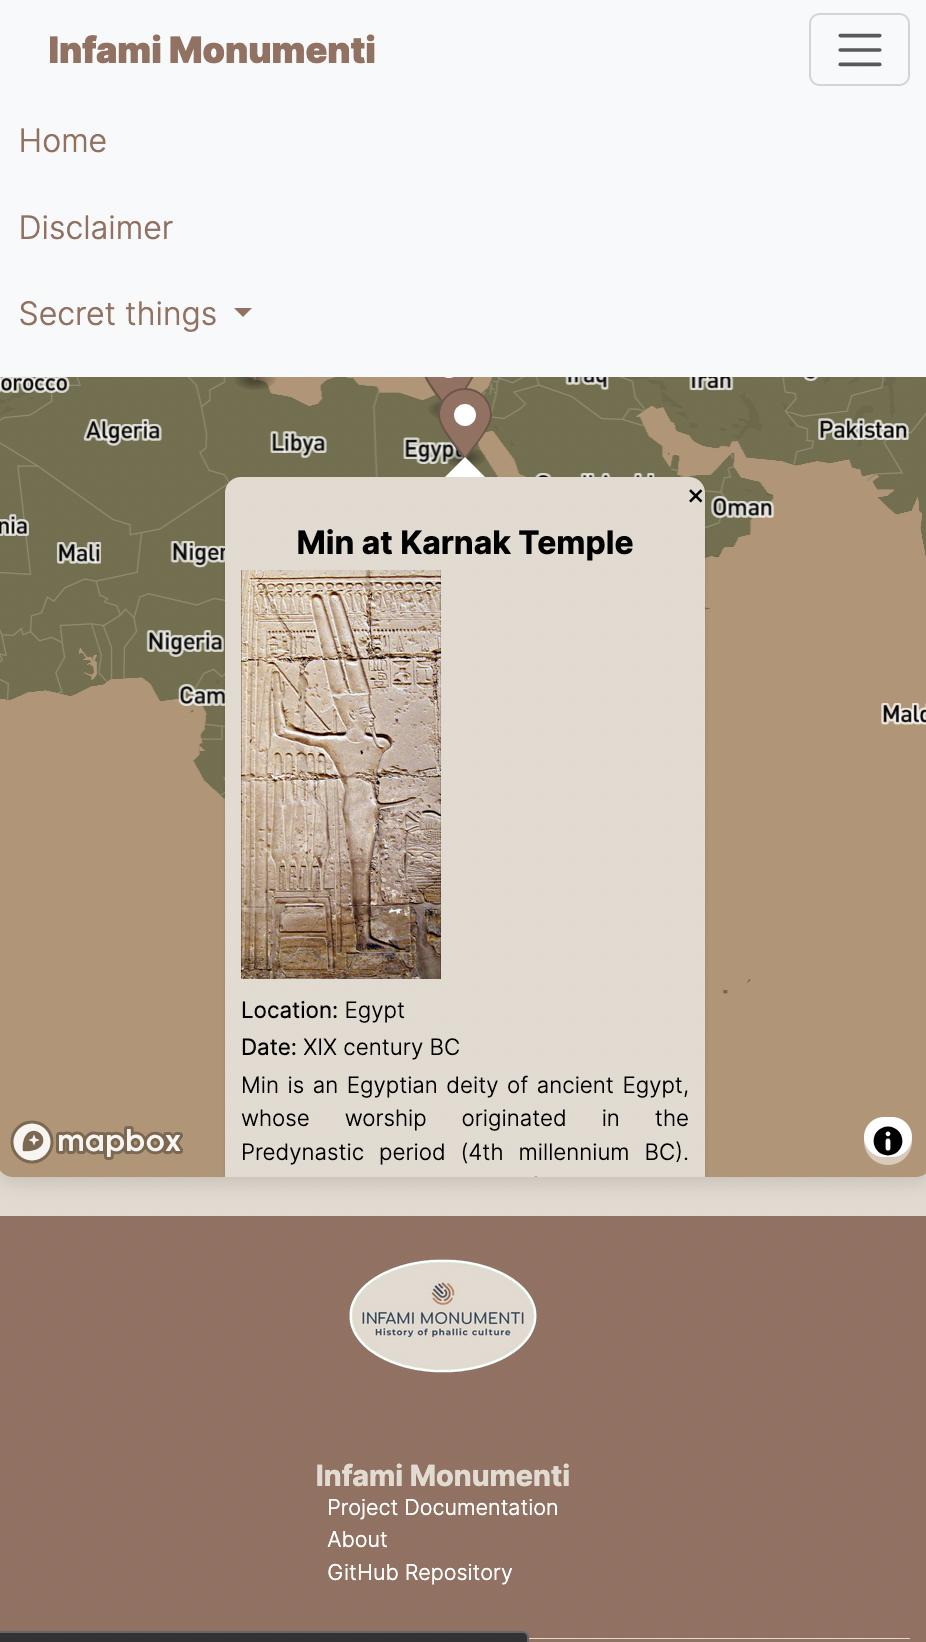
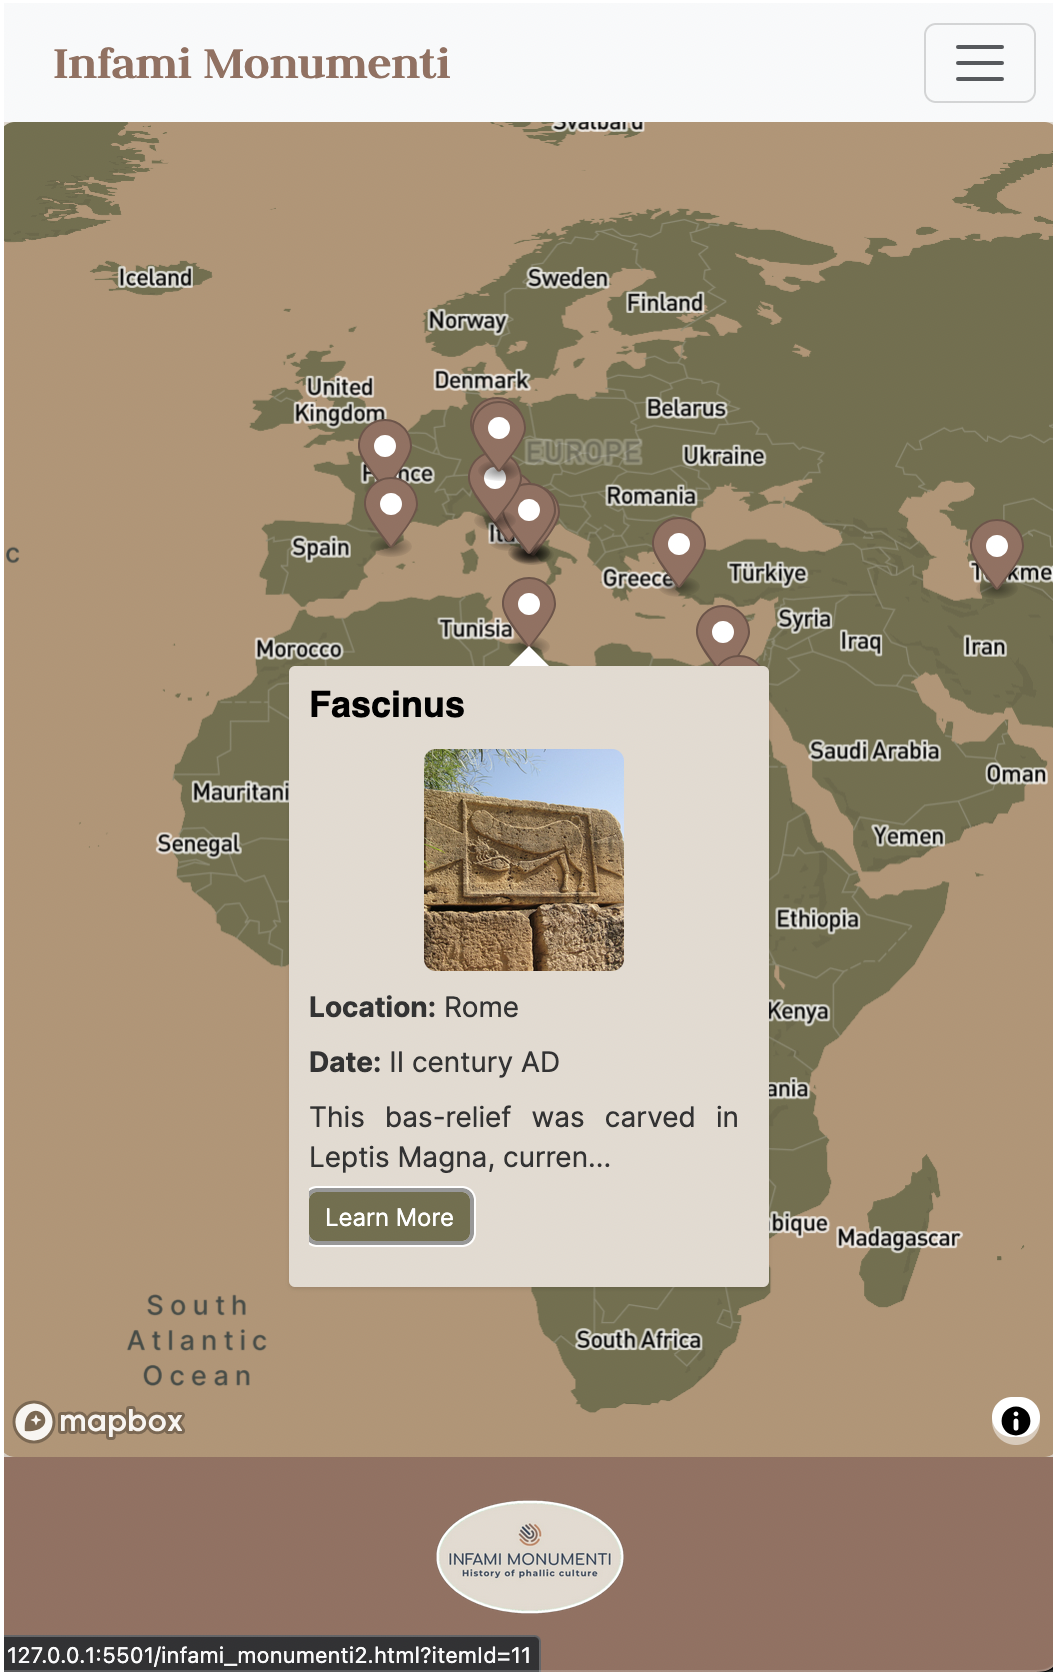
documentation images museum and story map

diff --git a/documentation.html b/documentation.html
@@ -50,7 +50,7 @@
         <div class="doc-content" id="project_content">
           <h2>Project</h2>
           <br>
-          <p>Infami Monumenti is a project that seeks to present a History of Phallic Culture, thinking of it as the invocation of the phallus the source of an alleged masculine power. Therefore, it was designed as a virtual museum with objects that present this culture and its main concepts: power, fertility, fortune and strength. There are specific settings for the page that presents all the objects, entitled <a href="museum.html">Museum</a> and for the presentation of each object within the <a href="infami_monumenti2.html">Narratives</a>.</p>
+          <p>Infami Monumenti is a project that seeks to present a History of Phallic Culture, thinking of it as the invocation of the phallus the source of an alleged masculine power. Therefore, it was designed as a virtual museum exposition with objects that present this culture and its main concepts: power, fertility, fortune and strength. There are specific settings for the page that presents all the objects, entitled <a href="museum.html">Museum</a> and for the presentation of each object within the <a href="infami_monumenti2.html">Narratives</a>. Also a geographic presentation of the objects in their conservation institutions all around the world in the <a href="storymap.html">Storymap</a> and chronological in the <a href="timeline.html">Timeline</a>  </p>
           <div class="doc-content" id="layout_project">
             <h3>Layout</h3>
             <br>
@@ -129,27 +129,27 @@
         <div class="doc-content" id="museum_content">
           <h2>Museum</h2>
           <br>
-          <p>The organization of items to tell the History of Phallic Culture was thought of as a museum exhibition. One of the inspirations was the <a href="https://mann-napoli.it/gabinetto-segreto/">Gabinetto Segreto of the National Archaeological Museum of Naples</a>. This section of the MAN contains, since the time of the Bourbon sovereigns of Naples, all works considered erotic or obscene, including some of the testimonies of phallic culture that were selected in this project.</p>
+          <p>The organization of items to tell the History of Phallic Culture was thought of as a museum exhibition, placed in the themed cafè of <a href="https://www.phallus.is/">The Icelandic Phallological Museum</a>.</p>
           <br>
           <div class="doc-content" id="layout_museum">
             <h3>Layout</h3>
             <br>
             <p>Trying to reproduce the feeling of starting a visit to a museum, we sought a different layout on this page. By placing the museum plan occupying the entire page, the desire was to prevent the user from having any suggestion of what their visit will be like, seeking to reproduce the feeling of the visitor who finds himself at the entrance of a museum. Even though the navbar is available for the user to access objects in another way, the arrangement of the page's main content occupying the entire screen is an invitation for the user to explore a space freely. As in many museums, works are presented im rooms according to their type of production: architecture, literary works, paintings, sculptures and frescoes. To achieve this effect, the <q>Museum</q> page was diveded in different columns and rows to replicate the structure of a museum plan. For this, a grid was used with columns of different sizes in each row. Then, photos of objects of each type were inserted into carousels, allowing the user to have a preview of the objects in each room. </p>
             <figure class="figure doc-figure">
-              <img src="images/museumlayout.png" class="figure-img img-fluid rounded" alt="main layout screenshot">
+              <img src="images/museum_desc.png" class="figure-img img-fluid rounded" alt="main layout screenshot">
               <figcaption class="figure-caption text-center">A screenshot of the application page on laptop screen sizes</figcaption>
             </figure>
             <div id="small-layout-screenshot">
-              <figure class="figure doc-figure"><img src="images/museumlayout_phone.jpeg" class="figure-img img-fluid rounded" alt="smartphone layout screenshot"><figcaption class="caption-sm-screen"></figcaption></figure>
-              <figure class="figure doc-figure"><img src="images/museumlayout_phone_1.jpeg" class="figure-img img-fluid rounded" alt="smartphone layout screenshot"><figcaption class="caption-sm-screen">The home page on mobile screen size</figcaption></figure>
-              <figure class="figure doc-figure"><img src="images/museumlayout_phone2.jpeg" class="figure-img img-fluid rounded" alt="smartphone layout screenshot"><figcaption class="caption-sm-screen"></figcaption></figure>
+              <figure class="figure doc-figure"><img src="images/museum_cel.png" class="figure-img img-fluid rounded" alt="smartphone layout screenshot"><figcaption class="caption-sm-screen"></figcaption></figure>
+              <figure class="figure doc-figure"><img src="images/museum_cel1.png" class="figure-img img-fluid rounded" alt="smartphone layout screenshot"><figcaption class="caption-sm-screen">The home page on mobile screen size</figcaption></figure>
+              <figure class="figure doc-figure"><img src="images/museum_cel2.png" class="figure-img img-fluid rounded" alt="smartphone layout screenshot"><figcaption class="caption-sm-screen"></figcaption></figure>
             </div>
             <br>
           </div>
           <div class="doc-content" id="colors_museum">
             <h3>Colors</h3>
             <br>
-            <p>To create the grid that mimics the floor plan of a museum, the color palette was slightly changed. As it was necessary to create a great contrast between each of the rectangles (the rooms), we chose a palette that is present in the excavations of Pompeii and found in different studies on color in statues of the period.</p>
+            <p>To indicate the categories of the objects, we chose to use different colors on the points that identify them. For this purpose, we chose a palette that is present in the excavations of Pompeii and found in different studies on color in statues of the period.</p>
             <br>
             <div class="palette-grid">
               <div class="palette-headers">
